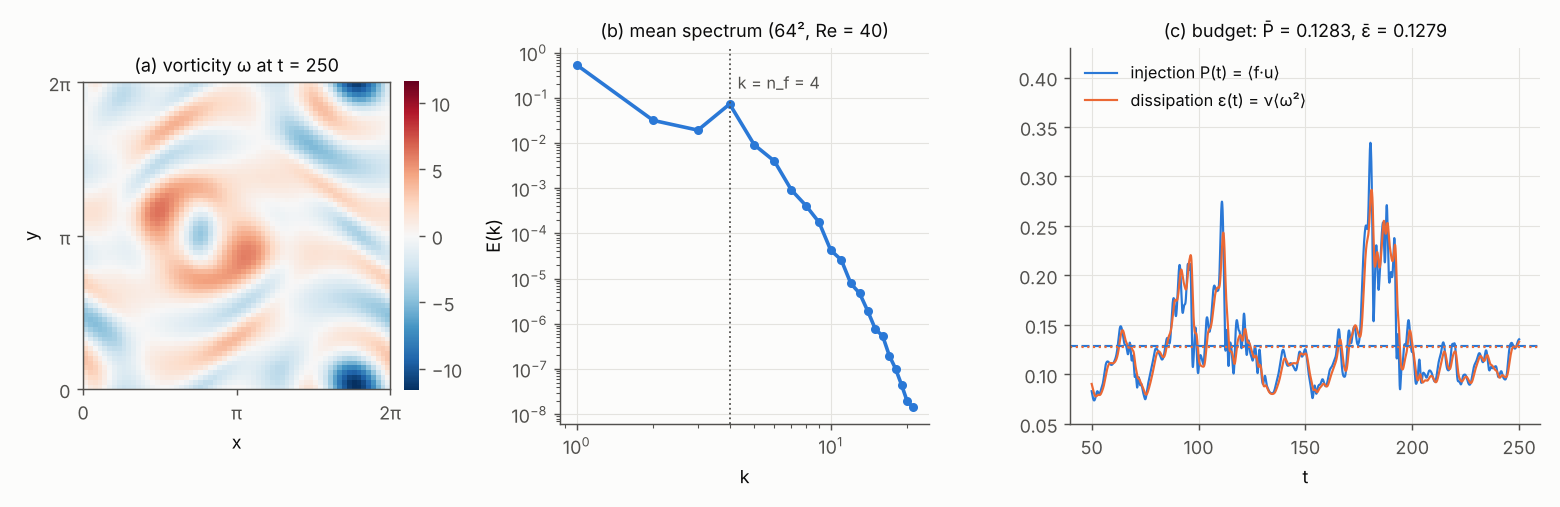
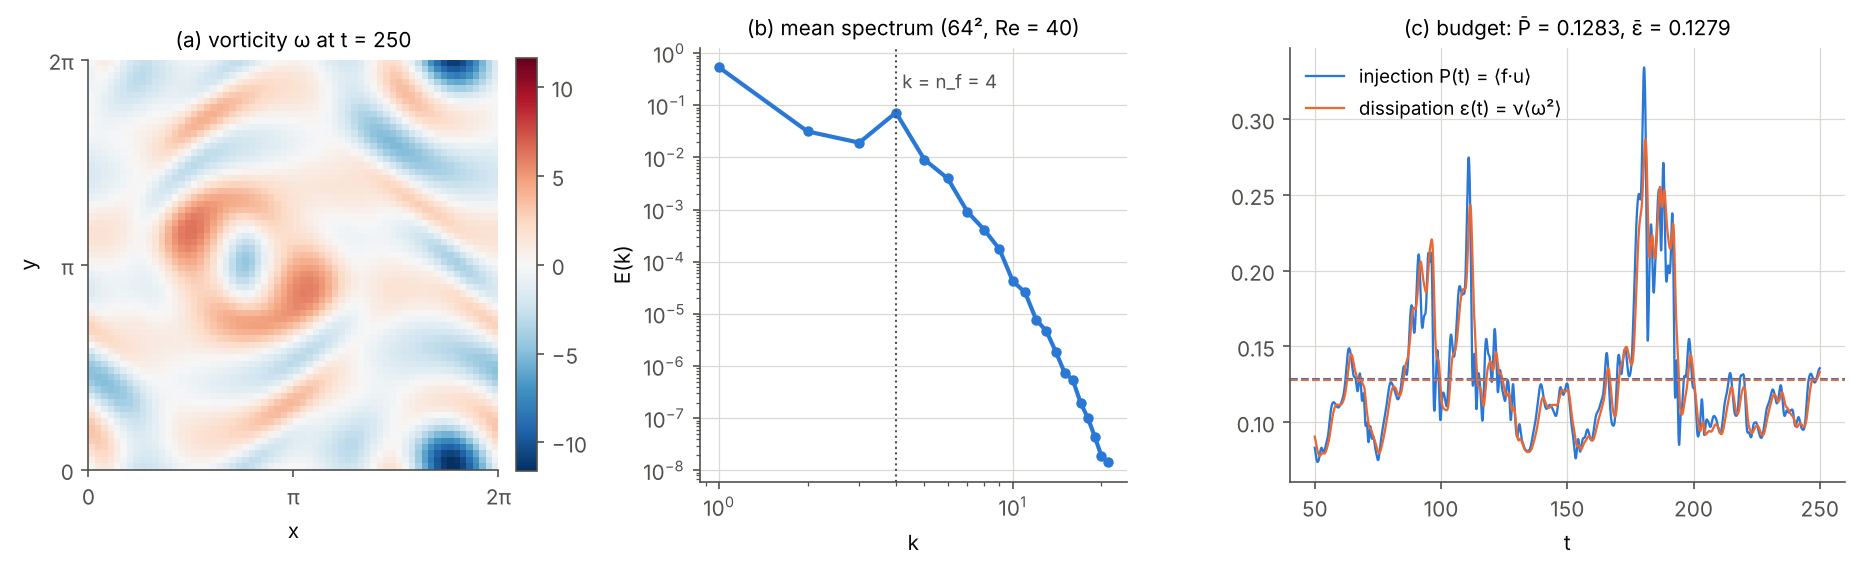
P2: figure script figures_p2.py, figures regenerated
lagrange (areas 0.2500 / 0.3675 / 0.4553 / 0.3960) and kolmogorov64
(P = 0.1283, eps = 0.1279) rerun the page code and match the captions;
cascade uses the Pope (2000) model spectrum of the interactive diagram;
the VKS panel uses a model stream function.

Claude-Session: https://claude.ai/code/session_019DLE2UupA8nNvHWE1xMPtD

diff --git a/site/prep/p2-fluid-mechanics/figures_p2.py b/site/prep/p2-fluid-mechanics/figures_p2.py
@@ -1,0 +1,299 @@
+"""Static figures of module p2 (fluid mechanics, reference flows, turbulence).
+
+Usage: python3 figures_p2.py [out_dir]     (default: the folder of this script)
+lagrange and kolmogorov64 rerun the code blocks of the page (sections 1 and 7); the model spectrum is
+that of Pope (2000) used by the interactive diagram of section 6 (C = 1.5, p0 = 2, c_L = 6.78,
+beta = 5.2, c_eta = 0.40); the VKS panel uses a model stream function and the dimensions of
+docs/specs/sources/dynamo.md §1.3. Prints the numbers quoted in the captions. Runs in about a minute.
+"""
+import sys
+from pathlib import Path
+
+import numpy as np
+
+sys.path.insert(0, str(Path(__file__).resolve().parents[2] / "assets"))
+import figstyle as fs  # noqa: E402
+import matplotlib.pyplot as plt  # noqa: E402
+from matplotlib import patches  # noqa: E402
+
+fs.use(10)
+HERE = Path(__file__).resolve().parent
+PI_TICKS = ([0, np.pi, 2 * np.pi], ["0", "π", "2π"])
+
+
+def rk4(f, x, h):
+    k1 = f(x); k2 = f(x + h / 2 * k1); k3 = f(x + h / 2 * k2); k4 = f(x + h * k3)
+    return x + h / 6 * (k1 + 2 * k2 + 2 * k3 + k4)
+
+
+# ---------------------------------------------------------------------------------------------
+def fig_lagrange(out):
+    """Square blob [0.3, 0.8] x [1.1, 1.6] advected by the cellular flow, without and with a divergent part."""
+    def u_sol(p):
+        x, y = p[..., 0], p[..., 1]
+        return np.stack([np.sin(x) * np.cos(y), -np.cos(x) * np.sin(y)], -1)
+
+    def u_div(p):
+        return u_sol(p) + 0.35 * np.stack([np.sin(p[..., 0]), np.sin(p[..., 1])], -1)
+
+    s = np.linspace(0, 1, 401)[:-1]
+    side = [np.stack([0.3 + 0.5 * s, 1.1 + 0 * s], 1), np.stack([0.8 + 0 * s, 1.1 + 0.5 * s], 1),
+            np.stack([0.8 - 0.5 * s, 1.6 + 0 * s], 1), np.stack([0.3 + 0 * s, 1.6 - 0.5 * s], 1)]
+    blob = np.concatenate(side)
+
+    def area(c):
+        x, y = c[:, 0], c[:, 1]
+        return 0.5 * abs(np.dot(x, np.roll(y, -1)) - np.dot(y, np.roll(x, -1)))
+
+    xg = np.linspace(0, np.pi, 200)
+    X, Y = np.meshgrid(xg, xg)
+    blues = ["#a5c8f0", "#5b9ae6", fs.C1, "#1b4f93"]
+    fig, ax = plt.subplots(1, 2, figsize=(10, 4.6))
+    for a, field, title in ((ax[0], u_sol, "(a) ∇·u = 0: material area is conserved"),
+                            (ax[1], u_div, "(b) ∇·u ≠ 0: area changes")):
+        a.contour(X, Y, np.sin(X) * np.sin(Y), levels=np.linspace(0.1, 0.9, 9), colors=fs.LIGHT, linewidths=0.8)
+        c, areas = blob.copy(), []
+        for t in range(4):
+            if t:
+                for _ in range(400):
+                    c = rk4(field, c, 1 / 400)
+            areas.append(area(c))
+            a.fill(c[:, 0], c[:, 1], color=blues[t], alpha=0.35 + 0.1 * t, lw=0)
+            a.plot(np.r_[c[:, 0], c[0, 0]], np.r_[c[:, 1], c[0, 1]], color=blues[t], lw=2,
+                   label=f"t = {t}: area = {areas[-1]:.4f}")
+        print(f"lagrange: {title[:3]} areas {', '.join(f'{v:.4f}' for v in areas)}")
+        a.set_xlim(0, np.pi + 0.1); a.set_ylim(0, np.pi + 0.1); a.set_aspect("equal")
+        a.set_xlabel("x"); a.set_ylabel("y"); a.set_title(title); a.legend(loc="upper right", fontsize=8.5, frameon=True)
+        a.grid(False)
+    fig.tight_layout()
+    fs.save(fig, out / "lagrange.png")
+
+
+# ---------------------------------------------------------------------------------------------
+def abc(p, A=1.0, B=np.sqrt(2 / 3), C=np.sqrt(1 / 3)):
+    x, y, z = p[..., 0], p[..., 1], p[..., 2]
+    return np.stack([A * np.sin(z) + C * np.cos(y), B * np.sin(x) + A * np.cos(z), C * np.sin(y) + B * np.cos(x)], -1)
+
+
+def poincare(n_traj=90, T=2000.0, dt=0.05, seed=0):
+    """Intersections with the planes z = 0 mod 2 pi (linear interpolation within the step)."""
+    rng = np.random.default_rng(seed)
+    p = np.column_stack([rng.uniform(0, 2 * np.pi, (n_traj, 2)), np.zeros(n_traj)])
+    pts = []
+    for _ in range(int(T / dt)):
+        q = rk4(abc, p, dt)
+        k0, k1 = np.floor(p[:, 2] / (2 * np.pi)), np.floor(q[:, 2] / (2 * np.pi))
+        hit = k0 != k1
+        if hit.any():
+            zc = 2 * np.pi * np.maximum(k0, k1)[hit]
+            lam = (zc - p[hit, 2]) / (q[hit, 2] - p[hit, 2])
+            pts.append(p[hit, :2] + lam[:, None] * (q[hit, :2] - p[hit, :2]))
+        p = q
+    return np.mod(np.concatenate(pts), 2 * np.pi)
+
+
+def fig_flows(out):
+    fig, ax = plt.subplots(2, 3, figsize=(12.5, 8.6))
+    # (a) plane Poiseuille
+    a = ax[0, 0]
+    y = np.linspace(-1, 1, 200)
+    a.plot(1 - y ** 2, y, color=fs.C1)
+    for yy in np.linspace(-0.8, 0.8, 9):
+        a.annotate("", xy=(1 - yy ** 2, yy), xytext=(0.05, yy), arrowprops=dict(arrowstyle="-|>", color=fs.INK2, lw=1))
+    for yy in (-1, 1):
+        a.axhline(yy, color=fs.INK, lw=3)
+        a.text(1.75, yy + (0.08 if yy > 0 else -0.08), "wall (no slip)", ha="right", va="center", fontsize=8.5)
+    a.text(1.05, 0.55, "U(y) = G(h² − y²)/(2ν)", fontsize=9)
+    a.set_xlim(-0.05, 1.8); a.set_ylim(-1.25, 1.25); a.set_xlabel("U / U_max"); a.set_ylabel("y / h")
+    a.set_title("(a) Plane Poiseuille")
+    xg = np.linspace(0, 2 * np.pi, 96)
+    X, Y = np.meshgrid(xg, xg)
+    # (b) Taylor–Green
+    a = ax[0, 1]
+    psi = np.sin(X) * np.sin(Y)
+    a.imshow(2 * psi, extent=(0, 2 * np.pi, 0, 2 * np.pi), origin="lower", cmap=fs.DIVERGING, vmin=-2.2, vmax=2.2)
+    a.streamplot(X, Y, np.sin(X) * np.cos(Y), -np.cos(X) * np.sin(Y), color=fs.INK, density=0.9, linewidth=0.8)
+    a.set_title("(b) 2D Taylor–Green: ψ and ω")
+    # (c) laminar Kolmogorov
+    a = ax[0, 2]
+    a.imshow(np.sin(4 * Y), extent=(0, 2 * np.pi, 0, 2 * np.pi), origin="lower", cmap=fs.DIVERGING, vmin=-1.3, vmax=1.3)
+    yq = np.linspace(0.1, 2 * np.pi - 0.1, 24)
+    for x0 in (np.pi / 3, 4 * np.pi / 3):
+        a.quiver(np.full_like(yq, x0), yq, np.sin(4 * yq), 0 * yq, scale=6, width=0.006, color=fs.INK)
+        a.plot(x0 + 0.9 * np.sin(4 * xg), xg, color=fs.INK, lw=0.8)
+    a.set_title("(c) Laminar Kolmogorov: uₓ = sin(4y)")
+    # (d) ABC slice z = 0
+    a = ax[1, 0]
+    P = np.stack([X, Y, np.zeros_like(X)], -1)
+    U = abc(P)
+    a.imshow(U[..., 2], extent=(0, 2 * np.pi, 0, 2 * np.pi), origin="lower", cmap=fs.DIVERGING, vmin=-1.6, vmax=1.6)
+    s = slice(3, None, 8)
+    a.quiver(X[s, s], Y[s, s], U[s, s, 0], U[s, s, 1], color=fs.INK, scale=22, width=0.005)
+    a.set_title("(d) ABC, slice z = 0: u_z (colour), (uₓ, u_y)")
+    # (e) Poincaré section
+    a = ax[1, 1]
+    pts = poincare()
+    print(f"flows: Poincaré section, {len(pts)} points from 90 trajectories")
+    a.scatter(pts[:, 0], pts[:, 1], s=0.15, color=fs.C1, lw=0)
+    a.set_title("(e) ABC, Poincaré section z ≡ 0")
+    for a in (ax[0, 1], ax[0, 2], ax[1, 0], ax[1, 1]):
+        a.set_xlim(0, 2 * np.pi); a.set_ylim(0, 2 * np.pi); a.set_aspect("equal"); a.grid(False)
+        a.set_xticks(*PI_TICKS); a.set_yticks(*PI_TICKS); a.set_xlabel("x"); a.set_ylabel("y")
+    # (f) VKS meridional plane: model stream function, 4 poloidal cells, dimensions in mm
+    a = ax[1, 2]
+    R, H = 206.0, 185.5                                    # cylinder radius, half distance between the disks
+    r = np.linspace(-R, R, 160); z = np.linspace(-H, H, 160)
+    Rg, Zg = np.meshgrid(r, z)
+    psi = np.sin(np.pi * Rg / R) * np.sin(np.pi * Zg / H)  # vanishes on the axis, the wall, the disks and z = 0
+    ur, uz = -np.pi / H * np.sin(np.pi * Rg / R) * np.cos(np.pi * Zg / H), np.pi / R * np.cos(np.pi * Rg / R) * np.sin(np.pi * Zg / H)
+    # with this sign the fluid is drawn along the axis towards each impeller, ejected radially along the
+    # disk and returns along the wall to the mid-plane (u_z > 0 on the axis for z > 0)
+    a.streamplot(Rg, Zg, ur, uz, color=fs.C1, density=1.0, linewidth=1.1)
+    for zz in (H, -H):
+        a.add_patch(patches.Rectangle((-R, zz if zz > 0 else -H - 50), 2 * R, 50, color="#e4e3df", lw=0))
+        a.plot([-154.5, 154.5], [zz, zz], color=fs.INK, lw=4)
+        for rb in np.linspace(-130, 130, 6):
+            a.plot([rb, rb], [zz, zz - np.sign(zz) * 41.2], color=fs.INK, lw=1.2)
+        a.text(0, zz + np.sign(zz) * 30, f"impeller ({'+' if zz > 0 else '−'}F)", ha="center", va="center", fontsize=8.5)
+    a.add_patch(patches.Rectangle((-R, -H - 50), 2 * R, 2 * H + 100, fill=False, ec=fs.INK, lw=1.5))
+    a.axhline(0, color=fs.C2, ls="--", lw=1.6); a.text(R - 5, 12, "shear layer", ha="right", fontsize=8.5)
+    a.axvline(0, color=fs.INK2, ls=":", lw=1)
+    for (rx, zx, sym) in [(-110, 95, "⊗"), (110, 95, "⊙"), (-110, -95, "⊙"), (110, -95, "⊗")]:
+        a.text(rx, zx, sym, ha="center", va="center", fontsize=20, family="DejaVu Sans")
+    a.set_xlim(-R - 10, R + 10); a.set_ylim(-H - 60, H + 60); a.set_aspect("equal"); a.grid(False)
+    a.set_xlabel("r (mm)"); a.set_ylabel("z (mm)"); a.set_title("(f) von Kármán (VKS), meridional plane")
+    fig.tight_layout()
+    fs.save(fig, out / "flows.png")
+
+
+# ---------------------------------------------------------------------------------------------
+def pope_spectrum(k, eta, C=1.5, p0=2.0, cL=6.78, beta=5.2, ceta=0.40):
+    """Model spectrum of Pope (2000) with epsilon = L = 1."""
+    fL = (k / np.sqrt(k ** 2 + cL)) ** (5 / 3 + p0)
+    feta = np.exp(-beta * ((((k * eta) ** 4) + ceta ** 4) ** 0.25 - ceta))
+    return C * k ** (-5 / 3) * fL * feta
+
+
+def fig_cascade(out):
+    fig, ax = plt.subplots(1, 2, figsize=(12, 4.4))
+    a = ax[0]
+    k = np.logspace(-1.5, 5, 600)
+    a.axvspan(10 ** -1.5, 2 * np.pi, color=fs.C1, alpha=0.1, lw=0)
+    a.axvspan(1e3, 1e5, color=fs.C2, alpha=0.1, lw=0)
+    for LE, col in ((1e2, "#5b9ae6"), (1e4, "#1b4f93")):
+        a.loglog(k, pope_spectrum(k, 1 / LE), color=col, label=f"L/η = 10{'²' if LE == 1e2 else '⁴'}")
+    kk = np.logspace(0.3, 3.4, 10)
+    a.loglog(kk, 1.5 * kk ** (-5 / 3) * 3, "--", color=fs.INK2, lw=1.2)
+    a.text(80, 1.5 * 80 ** (-5 / 3) * 9, r"$k^{-5/3}$", color=fs.INK2)
+    a.annotate("", xy=(800, 1e-5 * 1.2), xytext=(90, 1e-5 * 1.2), arrowprops=dict(arrowstyle="-|>", color=fs.C2, lw=2))
+    a.text(80, 1.2e-5, "energy flux ε ", ha="right", va="center", fontsize=9)
+    for x, txt in ((0.4, "large scales\n(injection)"), (60, "inertial range\n(L/η = 10⁴)"), (3e4, "dissipation\n(L/η = 10⁴)")):
+        a.text(x, 3e-9, txt, ha="center", fontsize=9, bbox=dict(fc="white", ec="none", alpha=0.7, pad=1))
+    a.set_ylim(1e-10, 30); a.set_xlim(10 ** -1.5, 1e5); a.legend(loc="upper right", fontsize=9)
+    a.set_xlabel("k L"); a.set_ylabel("E(k)  (ε = L = 1)"); a.set_title("(a) 3D turbulence: model spectrum (Pope, 2000)")
+    # (b) sketch of the dual cascade: theoretical slopes only
+    b = ax[1]
+    kf = 30.0
+    k1, k2 = np.logspace(0, np.log10(kf), 50), np.logspace(np.log10(kf), 3, 50)
+    b.loglog(k1, (k1 / kf) ** (-5 / 3), color=fs.C1); b.loglog(k2, (k2 / kf) ** -3.0, color=fs.C3)
+    b.axvline(kf, color=fs.INK2, ls=":", lw=1); b.text(kf * 1.05, 40, "forcing k_f", color=fs.INK2, fontsize=9)
+    b.text(3, 10, r"$k^{-5/3}$"); b.text(200, 1e-2, r"$k^{-3}$")
+    b.annotate("", xy=(1.6, 3e-3), xytext=(6, 3e-3), arrowprops=dict(arrowstyle="-|>", color=fs.C1, lw=2))
+    b.text(7, 3e-3, "inverse\nenergy cascade", va="center", fontsize=9)
+    b.annotate("", xy=(900, 10), xytext=(150, 10), arrowprops=dict(arrowstyle="-|>", color=fs.C3, lw=2))
+    b.text(140, 10, "direct enstrophy\ncascade", ha="right", va="center", fontsize=9)
+    b.set_xlim(1, 1e3); b.set_ylim(1e-5, 200)
+    b.set_xlabel("k"); b.set_ylabel("E(k) / E(k_f)"); b.set_title("(b) 2D turbulence: dual cascade (Kraichnan, 1967)")
+    fig.tight_layout()
+    fs.save(fig, out / "cascade.png")
+
+
+# ---------------------------------------------------------------------------------------------
+def kolmogorov():
+    """Solver of the page (section 7): Re = 40, n_f = 4, 64², spin-up 50, average over 200 time units."""
+    N, n_f, Re = 64, 4, 40.0
+    nu = 1.0 / Re
+    L = 2 * np.pi
+    x = np.arange(N) * L / N
+    X, Y = np.meshgrid(x, x, indexing="xy")
+    KX, KY = np.meshgrid(np.fft.rfftfreq(N, 1.0 / N), np.fft.fftfreq(N, 1.0 / N))
+    K2 = KX ** 2 + KY ** 2
+    K2inv = np.where(K2 > 0, 1.0 / np.where(K2 > 0, K2, 1.0), 0.0)
+    dealias = (np.abs(KX) < N / 3) & (np.abs(KY) < N / 3)
+    fx = np.sin(n_f * Y)
+    f_w = np.fft.rfft2(-n_f * np.cos(n_f * Y))
+
+    def velocity(wh):
+        ph = wh * K2inv
+        return np.fft.irfft2(1j * KY * ph, s=(N, N)), np.fft.irfft2(-1j * KX * ph, s=(N, N))
+
+    def rhs_nl(wh):
+        ux, uy = velocity(wh)
+        wx = np.fft.irfft2(1j * KX * wh, s=(N, N)); wy = np.fft.irfft2(1j * KY * wh, s=(N, N))
+        return -np.fft.rfft2(ux * wx + uy * wy) * dealias + f_w
+
+    def budget(wh):
+        ux, uy = velocity(wh)
+        w = np.fft.irfft2(wh, s=(N, N))
+        return 0.5 * np.mean(ux ** 2 + uy ** 2), np.mean(fx * ux), nu * np.mean(w ** 2)
+
+    rng = np.random.default_rng(0)
+    w0 = -(Re / n_f) * np.cos(n_f * Y) + 0.1 * rng.standard_normal((N, N))
+    wh = np.fft.rfft2(w0) * dealias
+    wh[0, 0] = 0.0
+    dt, T_spin, T_avg = 0.02, 50.0, 200.0
+    E_lin, E_half = np.exp(-nu * K2 * dt), np.exp(-nu * K2 * dt / 2)
+
+    def step(wh):
+        k1 = rhs_nl(wh)
+        k2 = rhs_nl(E_half * (wh + 0.5 * dt * k1))
+        k3 = rhs_nl(E_half * wh + 0.5 * dt * k2)
+        k4 = rhs_nl(E_lin * wh + dt * E_half * k3)
+        return E_lin * wh + dt / 6 * (E_lin * k1 + 2 * E_half * (k2 + k3) + k4)
+
+    n_spin, n_avg = int(T_spin / dt), int(T_avg / dt)
+    for _ in range(n_spin):
+        wh = step(wh)
+    hist = []
+    spec = np.zeros(N // 2 + 1)
+    shell = np.rint(np.sqrt(K2)).astype(int)
+    wgt = np.where(KX == 0, 1.0, 2.0)
+    for it in range(n_avg + 1):
+        hist.append(budget(wh))
+        if it % 50 == 0:
+            uh2 = wgt * np.abs(wh) ** 2 * K2inv / N ** 4
+            spec += 0.5 * np.bincount(shell.ravel(), uh2.ravel(), minlength=N)[: N // 2 + 1]
+        if it < n_avg:
+            wh = step(wh)
+    E, P, D = np.array(hist).T
+    return X, Y, np.fft.irfft2(wh, s=(N, N)), spec / (n_avg // 50 + 1), T_spin + dt * np.arange(n_avg + 1), P, D
+
+
+def fig_kolmogorov(out):
+    X, Y, w, Ek, t, P, D = kolmogorov()
+    print(f"kolmogorov64: <P>_t = {P.mean():.4f}, <D>_t = {D.mean():.4f}, relative difference "
+          f"{abs(P.mean() - D.mean()) / D.mean():.2%}; E(1) = {Ek[1]:.2e}, E(4) = {Ek[4]:.2e}, E(20) = {Ek[20]:.2e}; "
+          f"P, D range {min(P.min(), D.min()):.2f}–{max(P.max(), D.max()):.2f}")
+    fig, ax = plt.subplots(1, 3, figsize=(12.5, 3.9), gridspec_kw={"width_ratios": [1.05, 1, 1.3]})
+    m = np.abs(w).max()
+    im = ax[0].imshow(w, extent=(0, 2 * np.pi, 0, 2 * np.pi), origin="lower", cmap=fs.DIVERGING, vmin=-m, vmax=m)
+    fig.colorbar(im, ax=ax[0], fraction=0.046, pad=0.04)
+    ax[0].set_xticks(*PI_TICKS); ax[0].set_yticks(*PI_TICKS); ax[0].grid(False)
+    ax[0].set_xlabel("x"); ax[0].set_ylabel("y"); ax[0].set_title(f"(a) vorticity ω at t = {t[-1]:.0f}")
+    k = np.arange(1, 22)
+    ax[1].loglog(k, Ek[k], "o-", color=fs.C1, ms=4)
+    ax[1].axvline(4, color=fs.INK2, ls=":", lw=1); ax[1].text(4.2, Ek[1] * 0.4, "k = n_f = 4", color=fs.INK2, fontsize=9)
+    ax[1].set_xlabel("k"); ax[1].set_ylabel("E(k)"); ax[1].set_title("(b) mean spectrum (64², Re = 40)")
+    ax[2].plot(t, P, color=fs.C1, lw=1.1, label="injection P(t) = ⟨f·u⟩")
+    ax[2].plot(t, D, color=fs.C2, lw=1.1, label="dissipation ε(t) = ν⟨ω²⟩")
+    ax[2].axhline(P.mean(), color=fs.C1, ls="--", lw=1); ax[2].axhline(D.mean(), color=fs.C2, ls="--", lw=1)
+    ax[2].set_xlabel("t"); ax[2].legend(loc="upper left", fontsize=9)
+    ax[2].set_title(f"(c) budget: P̄ = {P.mean():.4f}, ε̄ = {D.mean():.4f}")
+    fig.tight_layout()
+    fs.save(fig, out / "kolmogorov64.png")
+
+
+if __name__ == "__main__":
+    out = fs.out_dir(__file__, sys.argv)
+    for fn in (fig_lagrange, fig_flows, fig_cascade, fig_kolmogorov):
+        fn(out)
